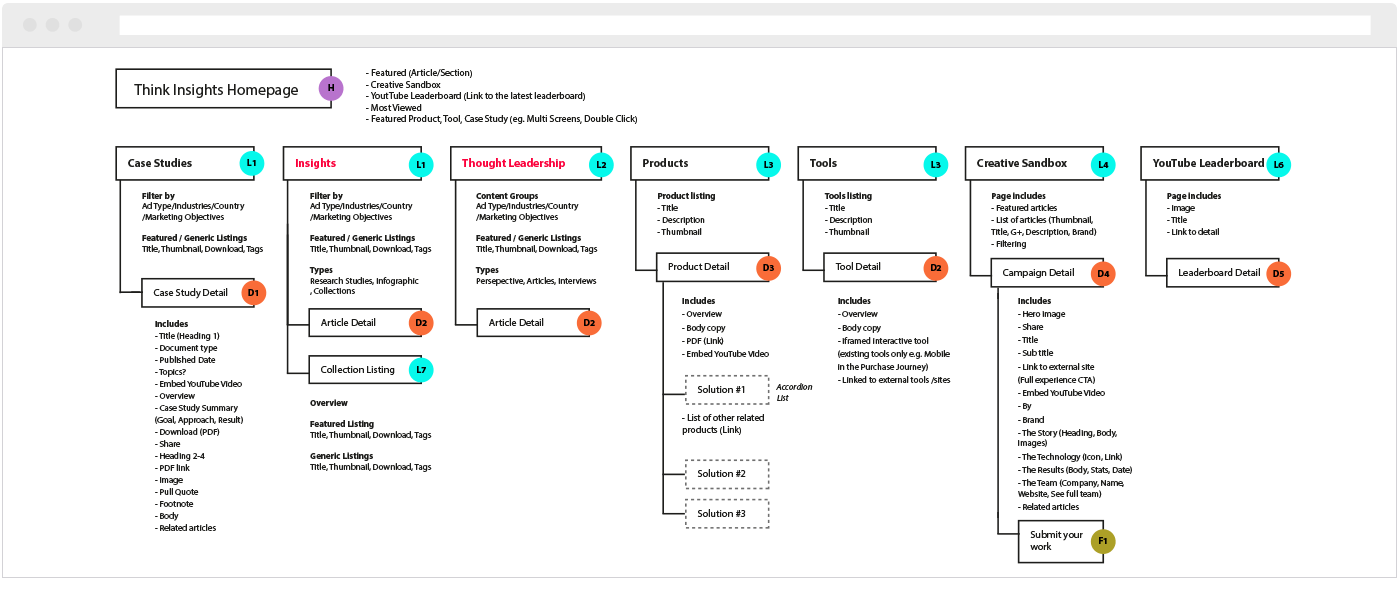
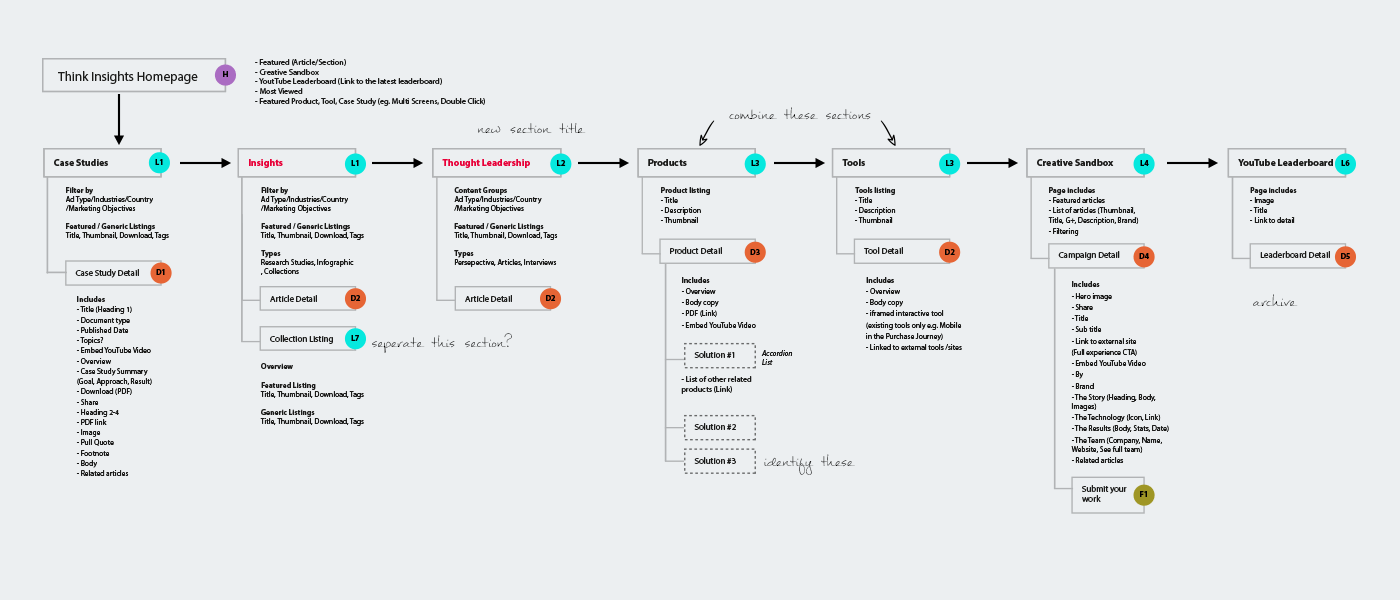
think with google content update

Changed region(s): [[0.0307, 0.09, 0.9829, 0.96], [0.5221, 0.18, 0.6143, 0.21]]

diff --git a/v2/detail_google_thinkwithgoogle.html b/v2/detail_google_thinkwithgoogle.html
@@ -47,22 +47,24 @@
 		</div>
 
 
-				<div class="col-xs-12">
-					<div class="detail-images">
-						<img src="images/detail_google_thinkwithgoogle_image11.png" alt=""/>
-					</div>
-				</div>
-
 
 
 		<div class="container">
 				<div class="col-xs-12">
 					<div class="detail-copy">
-						<h4>Sitemap & Wireframe</h4>
-						<p></p>
+						<h4>Challenge #1</h4>
+						<h2>Working with exisitng content</h2>
+						<p>The existing site had various type of content inclusing YouTube videos, infographic, articles and interactive tools. Even though the site had rich content but the site structure wasn't simple for the users and it was quite deep. Search and filtering wasn't user friednly, it requires least 2-3 clicks to filter and find specific articles I was looking for.</p>
+						<p> I was very much to improve the content strucutre in very simple and leaner way while a user can jump to other sections. I started mapping out the similar type of content and group them. </p>.
 					</div>
 				</div>
+		</div>
 
+				<div class="col-xs-12">
+					<div class="detail-images">
+						<img src="images/detail_google_thinkwithgoogle_image13.png" alt=""/>
+					</div>
+				</div>
 				<div class="col-xs-12">
 					<div class="detail-images">
 						<img src="images/detail_google_thinkwithgoogle_image8.png" alt=""/>
@@ -70,6 +72,35 @@
 				</div>
 
 
+
+		<div class="container">
+				<div class="col-xs-12">
+					<div class="detail-copy">
+						<h4>Challenge #2</h4>
+						<h2>Page layout</h2>
+						<p>The existing website contains different types of module: including embedded YouTube videos, interactive tools and downloadable Google documents. One of the biggest challenge was making the page more simple and legible. Istead of adding all modules in mutiple column layout, I set up the content priority of them and placed them in meaningful order. I focused on three main criteria: <strong>Contrast, Alignment, Whitespace.</strong></p>
+						<p> Applying carefully considered margins and space to create consistent structure. This allows a visual relief (avoiding distractions) for the users from the interface elements(windows, menus, secondary elements) of the browser and webpage. </p>
+						<p> <strong>Alignment options - </strong> Left justified text creates a solid rectangles and it allows user to scan a larger amount of content easily. The headings are normally centred for a symmetrical, it's grabbing a strong attention before a user decide to dive into details. </p>  
+						<p> Nothing attracts the eye of the reader like strong contrast and distinctive patterns. I create a styleguide that brings consistent and flexible page layout through entire website. Heading styles are available from H1 to H4, each heading style contains unique font size, line height and colour. This was also changed on each breakpoint while I was developing the site with front end development teams. </p>
+					</div>
+				</div>
+		</div>
+
+
+
+				<div class="col-xs-12">
+					<div class="detail-images">
+						<img src="images/detail_google_thinkwithgoogle_image14.png" alt=""/>
+					</div>
+				</div>
+
+				<div class="col-xs-12">
+					<div class="detail-images">
+						<img src="images/detail_google_thinkwithgoogle_image12.png" alt=""/>
+					</div>
+				</div>
+
+		<div class="container">
 				<div class="col-xs-12">
 					<div class="detail-images">
 						<img src="images/detail_google_thinkwithgoogle_image1.png" alt=""/>
@@ -77,30 +108,46 @@
 				</div>
 		</div>
 
+
 		<div class="container">
 				<div class="col-xs-12">
 					<div class="detail-copy">
-						<h4>Styleguide</h4>
-						<p></p>
+						<h4>Challenge #3</h4>
+						<h2>Material design</h2>
+						<p>When working on this, material design guidelines had only been released for apps and so we were one of the first teams to adapt this to website design. When thinking about the design, I wanted to work with Google’s new material design approach. I used cards to display and promote content to work with the clean lines throughout the website. Also material design emphasis on simple and meaningful animations. The Think with Google site was then used as an example of how to do this during this transition period.</p>
 					</div>
 				</div>
-
 		</div>
 
 				<div class="col-xs-12">
-					<div class="row">
-						<div class="col-xs-12 col-md-6">
-							<div class="detail-images">
-								<img src="images/detail_google_thinkwithgoogle_image3.png" alt=""/>
-							</div>
-						</div>
-						<div class="col-xs-12 col-md-6">
-							<div class="detail-images">
-								<img src="images/detail_google_thinkwithgoogle_image4.png" alt=""/>
-							</div>
-						</div>
+					<div class="detail-images">
+						<img src="images/detail_google_thinkwithgoogle_image11.png" alt=""/>
 					</div>
 				</div>
+				<div class="col-xs-12">
+					<div class="detail-images">
+						<img src="images/detail_google_thinkwithgoogle_image15.gif" alt=""/>
+					</div>
+				</div>
+
+		<div class="container">
+				<div class="col-xs-12">
+					<div class="detail-copy">
+						<h4>Feature</h4>
+						<h2>YouTube Leaderboard</h2>
+						<p></p>
+					</div>
+				</div>
+		</div>
+
+				<div class="col-xs-12">
+					<div class="detail-images">
+						<img src="images/detail_google_thinkwithgoogle_image16.png" alt=""/>
+					</div>
+				</div>
+
+
+
 
 		<div class="container">
 				<div class="col-xs-12">
@@ -143,6 +190,30 @@
 					</div>
 				</div>
 		</div>
+
+		<div class="container">
+				<div class="col-xs-12">
+					<div class="detail-copy">
+						<h4>Styleguide</h4>
+						<p></p>
+					</div>
+				</div>
+		</div>
+
+				<div class="col-xs-12">
+					<div class="row">
+						<div class="col-xs-12 col-md-6">
+							<div class="detail-images">
+								<img src="images/detail_google_thinkwithgoogle_image3.png" alt=""/>
+							</div>
+						</div>
+						<div class="col-xs-12 col-md-6">
+							<div class="detail-images">
+								<img src="images/detail_google_thinkwithgoogle_image4.png" alt=""/>
+							</div>
+						</div>
+					</div>
+				</div>
 
 				<div class="col-xs-12">
 					<div class="detail-copy">

diff --git a/v2/detail_google_cannes.html b/v2/detail_google_cannes.html
@@ -40,7 +40,7 @@
 		</div>
 				<div class="col-xs-12">
 					<div class="detail-images">
-						<img src="images/detail_google_cannes_image4.png" alt=""/>
+						<img src="images/detail_google_cannes_image4.jpg" alt=""/>
 					</div>
 				</div>
 		<div class="overview-cannes">
